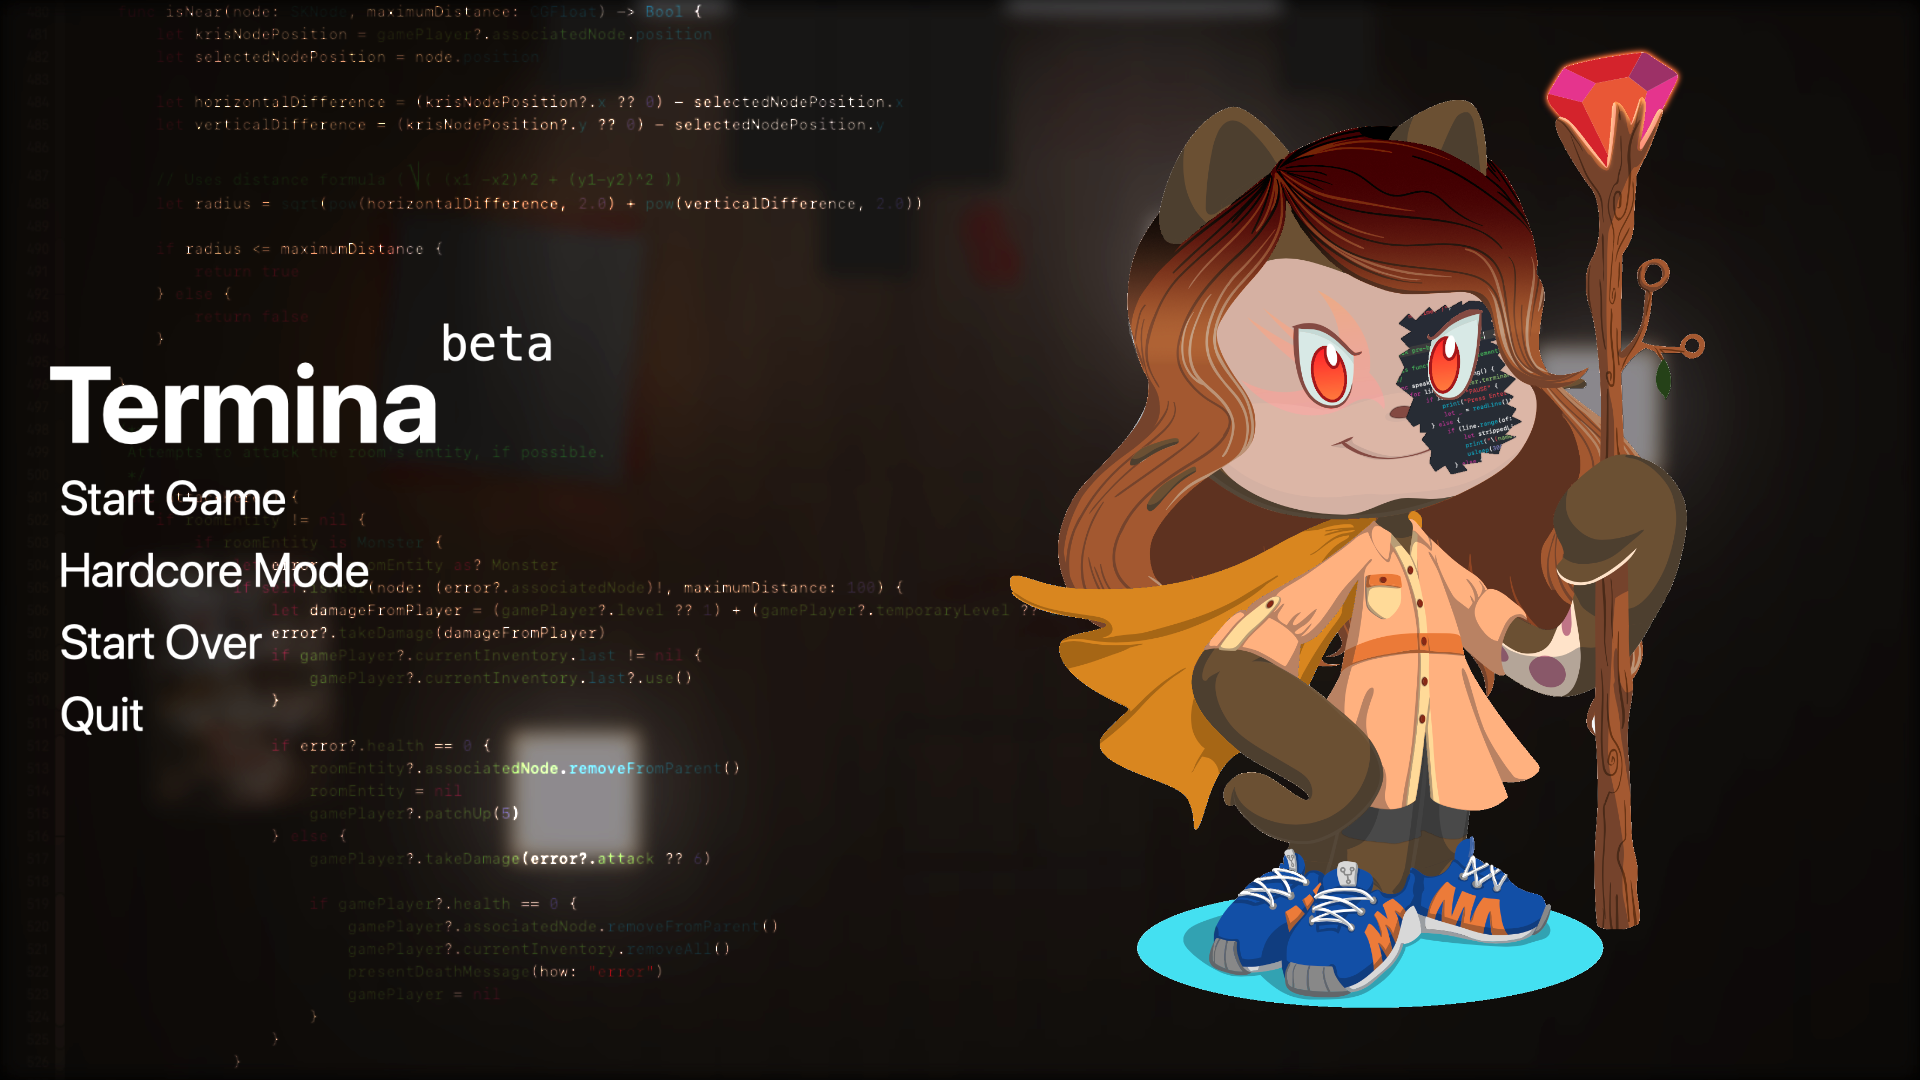
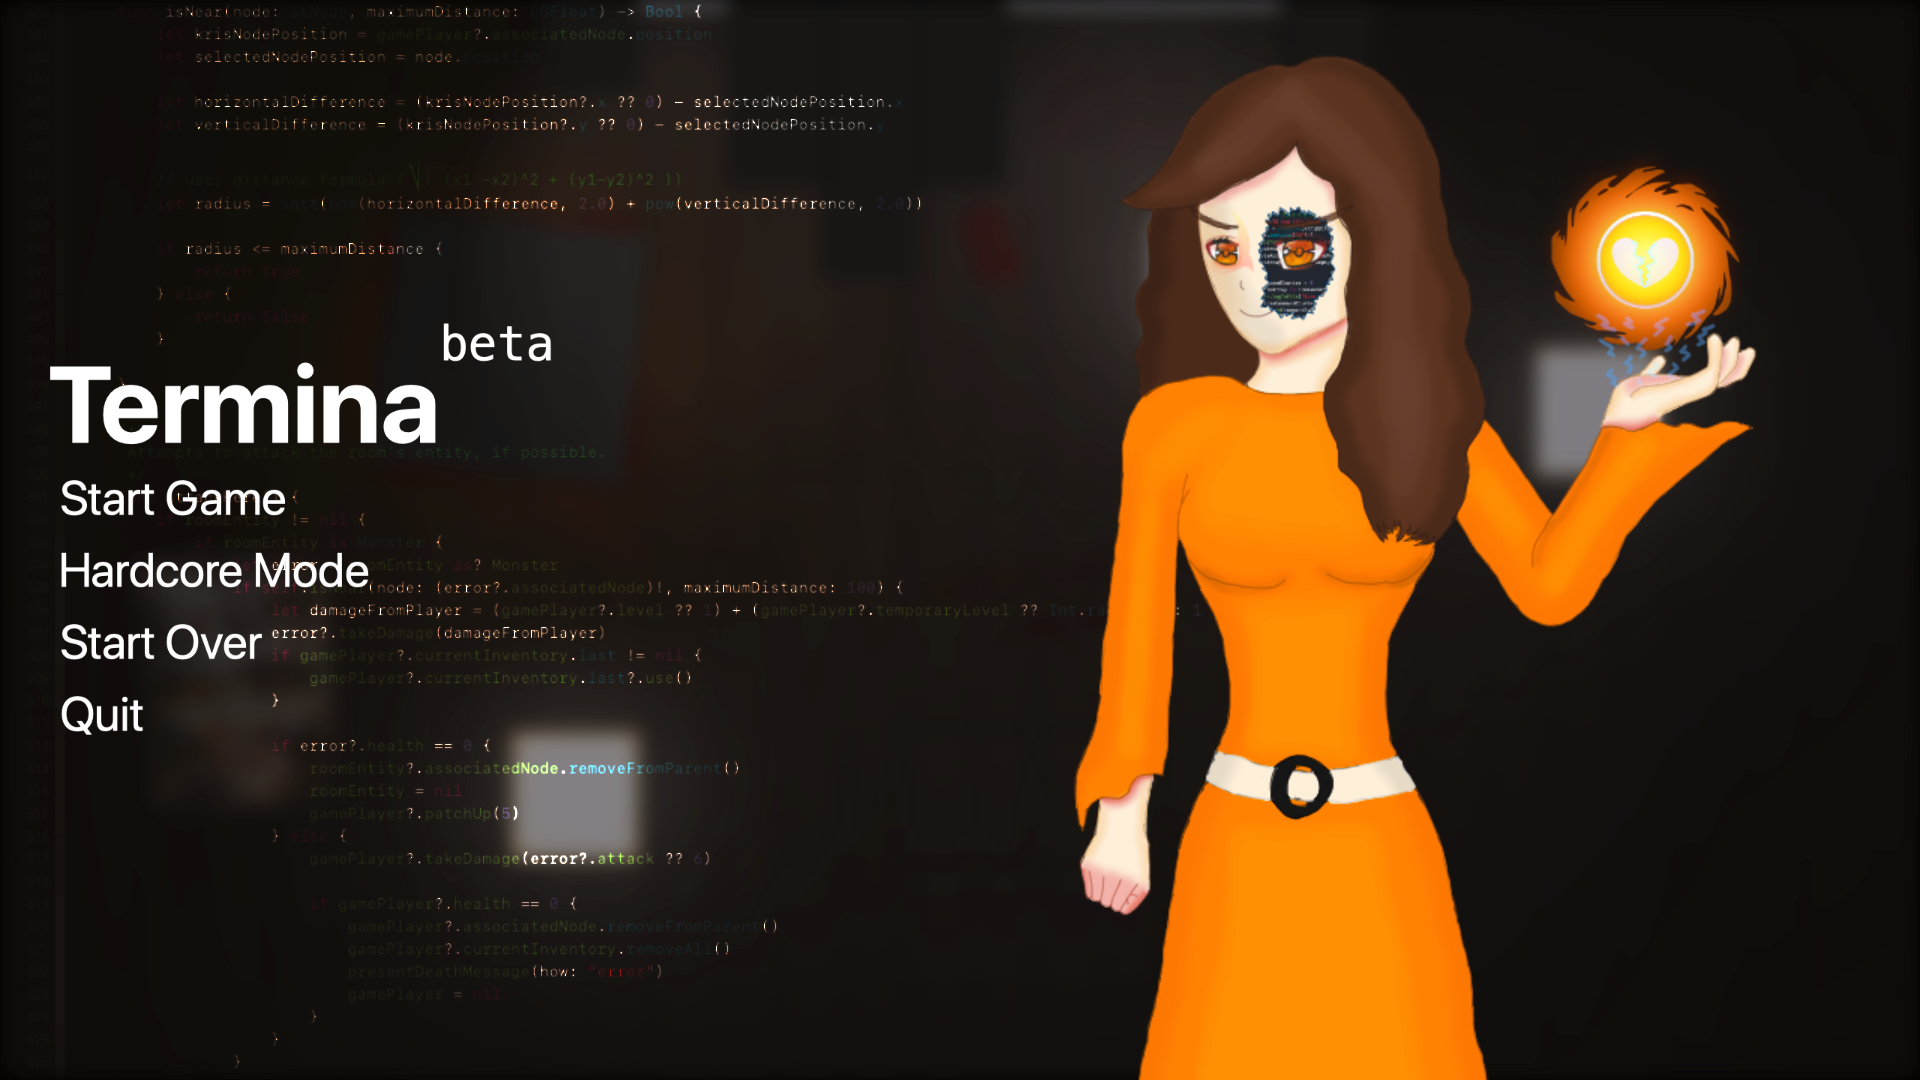
Added new comments, reorganized assets, fixed GitHub button

Changed region(s): [[0.5312, 0.0306, 0.9375, 1.0]]

diff --git a/pages/press.html b/pages/press.html
@@ -26,16 +26,17 @@ permalink: /press/
             </div>
         </div>
         <div class = "row">
-            <div class = "col-md-6 col-sm-12">
-                <img src = "{{ site.baseurl }}/assets/termmac.png" width = "70%" alt="Termina logo"/>
+            <div class = "col-md-2 col-sm-12">
+                <img src = "{{ site.baseurl }}/assets/icons/termmac.png" width = "100%" alt="Termina logo"/>
             </div>
-            <div class = "col-md-6 col-sm-12">
+            <div class = "col-md-10 col-sm-12">
                 <h2>Game Information</h2>
                 <p>
                     Termina is a singleplayer dungeon game written in Swift. Play as a player, trapped in Termina's endless dungeon. Catch the errors, upgrade versions, and keep going until you reach her. Can you reach her in time?
                 </p>
             </div>
         </div>
+        <br/>
         <div class = "row">
             <div class = "col-md-4 col-sm-6">
                 <h3>Available Platforms</h3>
@@ -81,7 +82,7 @@ permalink: /press/
                 <p>
                     <ul class = "list-unstyled">
                         <li><b>Developer</b>: Marquis Kurt</li>
-                        <li><b>Music Producers:</b> Linus Berggren, Eitan Avni-Heller</li>
+                        <li><b>Music Producers:</b> Linus Berggren</li>
                     </ul>
                 </p>
             </div>
@@ -95,23 +96,23 @@ permalink: /press/
             <div class = "col-md-3 col-sm-6">
                 <h3>Base</h3>
                 <p>Used to represent the command-line version of the game.</p>
-                <center><img src = "{{ site.baseurl }}/assets/base.png" width = "70%" alt="Base logo"/></center>
+                <center><img src = "{{ site.baseurl }}/assets/icons/base.png" width = "70%" alt="Base logo"/></center>
             </div>
             <div class = "col-md-3 col-sm-6">
                 <h3>macOS</h3>
                 <p>Used to represent the stable macOS version of the game.</p>
-                <center><img src = "{{ site.baseurl }}/assets/termmac.png" width = "70%" alt="macOS Stable logo"/></center>
+                <center><img src = "{{ site.baseurl }}/assets/icons/termmac.png" width = "70%" alt="macOS Stable logo"/></center>
             </div>
             <div class = "col-md-3 col-sm-6">
                 <h3>macOS Beta</h3>
                 <p>Used to represent the beta macOS version of the game.</p>
-                <center><img src = "{{ site.baseurl }}/assets/termmac_beta.png" width = "70%" alt="macOS Beta logo"/></center>
+                <center><img src = "{{ site.baseurl }}/assets/icons/termmac_beta.png" width = "70%" alt="macOS Beta logo"/></center>
                 <p class = "text-muted">This should only be used for describing the <a href = "{{ site.baseurl }}/mac/tutoriel.html">Termina for macOS Beta Program.</a></p>
             </div>
             <div class = "col-md-3 col-sm-6">
                 <h3>iOS</h3>
                 <p>Used to represent the iOS version of the game and the official profile picture.</p>
-                <center><img src = "{{ site.baseurl }}/assets/termios_rounded.png" width = "70%" alt="iOS logo"/></center>
+                <center><img src = "{{ site.baseurl }}/assets/icons/termios_rounded.png" width = "70%" alt="iOS logo"/></center>
             </div>
         </div>
         <div class = "row">

diff --git a/pages/releases.html b/pages/releases.html
@@ -47,11 +47,11 @@ permalink: /releases/
                 <div class = "row">
                     <div class = "col-2">
                         {% if post.product == "base" %}
-                            <img src = "{{ site.baseurl }}/assets/base.png" width="100%"/>
-                        {% else if post.product == "ios" %}
-                            <img src = "{{ site.baseurl }}/assets/termios.png" width="100%"/>
-                        {% else if post.product == "mac" %}
-                            <img src = "{{ site.baseurl }}/assets/termmac.png" width="100%"/>   
+                            <img src = "{{ site.baseurl }}/assets/icons/base.png" width="100%"/>
+                        {% elsif post.product == "ios" %}
+                            <img src = "{{ site.baseurl }}/assets/icons/termios-rounded.png" width="100%"/>
+                        {% elsif post.product == "mac" %}
+                            <img src = "{{ site.baseurl }}/assets/icons/termmac.png" width="100%"/>   
                         {% endif %}
                     </div>
                     <div class = "col-10">
@@ -77,11 +77,11 @@ permalink: /releases/
                 <div class = "row">
                     <div class = "col-2">
                         {% if post.product == "base" %}
-                            <img src = "{{ site.baseurl }}/assets/base.png" width="100%"/>
-                        {% else if post.product == "ios" %}
-                            <img src = "{{ site.baseurl }}/assets/termios.png" width="100%"/>
-                        {% else if post.product == "mac" %}
-                            <img src = "{{ site.baseurl }}/assets/termmac.png" width="100%"/>   
+                            <img src = "{{ site.baseurl }}/assets/icons/base.png" width="100%"/>
+                        {% elsif post.product == "ios" %}
+                            <img src = "{{ site.baseurl }}/assets/icons/termios.png" width="100%"/>
+                        {% elsif post.product == "mac" %}
+                            <img src = "{{ site.baseurl }}/assets/icons/termmac.png" width="100%"/>   
                         {% endif %}
                     </div>
                     <div class = "col-10">
@@ -105,11 +105,11 @@ permalink: /releases/
                 <div class = "row">
                     <div class = "col-2">
                         {% if post.product == "base" %}
-                            <img src = "{{ site.baseurl }}/assets/base.png" width="100%"/>
-                        {% else if post.product == "ios" %}
-                            <img src = "{{ site.baseurl }}/assets/termios.png" width="100%"/>
-                        {% else if post.product == "mac" %}
-                            <img src = "{{ site.baseurl }}/assets/termmac.png" width="100%"/>   
+                            <img src = "{{ site.baseurl }}/assets/icons/base.png" width="100%"/>
+                        {% elsif post.product == "ios" %}
+                            <img src = "{{ site.baseurl }}/assets/icons/termios.png" width="100%"/>
+                        {% elsif post.product == "mac" %}
+                            <img src = "{{ site.baseurl }}/assets/icons/termmac.png" width="100%"/>   
                         {% endif %}
                     </div>
                     <div class = "col-10">

diff --git a/_layouts/release.html b/_layouts/release.html
@@ -30,11 +30,11 @@
                     </div>
                     <div class = "col-3">
                         {% if page.product == "base" %}
-                            <img src = "{{ site.baseurl }}/assets/base.png" width="100%"/>
-                        {% else if page.product == "ios" %}
-                            <img src = "{{ site.baseurl }}/assets/termios.png" width="100%"/>
-                        {% else if page.product == "mac" %}
-                            <img src = "{{ site.baseurl }}/assets/termmac.png" width="100%"/>   
+                            <img src = "{{ site.baseurl }}/assets/icons/base.png" width="100%"/>
+                        {% elsif page.product == "ios" %}
+                            <img src = "{{ site.baseurl }}/assets/icons/termios.png" width="100%"/>
+                        {% elsif page.product == "mac" %}
+                            <img src = "{{ site.baseurl }}/assets/icons/termmac.png" width="100%"/>   
                         {% endif %}
                     </div>
                 </div>
@@ -62,14 +62,14 @@
                             <p>To install this product, copy the <code>termina</code> binary to where you can execute Unix binaries (usually <code>/usr/bin/</code> or <code>/usr/local/bin/</code>). Alternatively, you can copy this to a local folder in your Home directory and <a href="http://osxdaily.com/2014/08/14/add-new-path-to-path-command-line/">export the PATH in your Bash profile</a>.</p>
                         </div>
                     </p>
-                {% else if page.product == "ios" %}
+                {% elsif page.product == "ios" %}
                     <p>
                         <div class="alert alert-primary" role="alert">
                             <h4 class = "alert-heading">Installation instructions</h4>
                             <p>To install this product, install Termina for iOS from the App Store.</p>
                         </div>
                     </p>
-                {% else if page.product == "mac" %}
+                {% elsif page.product == "mac" %}
                     <p>
                         <div class="alert alert-primary" role="alert">
                             <h4 class = "alert-heading">Installation instructions</h4>

diff --git a/_layouts/post.html b/_layouts/post.html
@@ -38,6 +38,25 @@
             </div>
         </div>
     {% endif %}
+    <div class = "container">
+        <div class = "row">
+            <div class = "col">
+                <div id="disqus_thread"></div>
+                    <script>
+                    var disqus_config = function () {
+                      this.page.url = '{{ page.url | absolute_url }}';
+                      this.page.identifier = '{{ page.url | absolute_url }}';
+                    };
+                    (function() {
+                      var d = document, s = d.createElement('script');
+                      s.src = 'https://{{ site.disqus }}.disqus.com/embed.js';
+                      s.setAttribute('data-timestamp', +new Date());
+                      (d.head || d.body).appendChild(s);
+                    })();
+                </script>
+            </div>
+        </div>
+    </div>
     </div>
     
     <script src="https://code.jquery.com/jquery-3.3.1.slim.min.js" integrity="sha384-q8i/X+965DzO0rT7abK41JStQIAqVgRVzpbzo5smXKp4YfRvH+8abtTE1Pi6jizo" crossorigin="anonymous"></script>

diff --git a/_includes/navbar.html b/_includes/navbar.html
@@ -33,12 +33,12 @@
         </li>
     </ul>
     <span>
-        {% if page.title == "Termina for macOS" %}
-            <a class = "btn btn-light" href = "https://www.github.com/TerminaGame/mac">Fork on GitHub</a>
-        {% else if page.title == "Press Kit" %}
-            <a class = "btn btn-light" href = "https://www.github.com/TerminaGame/Press">Fork on GitHub</a>
+        {% if page.permalink == "/mac/" %}
+            <a class = "btn btn-light" href = "https://www.github.com/TerminaGame/mac">Fork mac on GitHub</a>
+        {% elsif page.permalink == "/press/" %}
+            <a class = "btn btn-light" href = "https://www.github.com/TerminaGame/Press">Fork Press on GitHub</a>
         {% else %}
-            <a class = "btn btn-light" href = "https://www.github.com/TerminaGame/">View on GitHub</a>
+            <a class = "btn btn-light" href = "https://www.github.com/TerminaGame/">View GitHub Profile</a>
         {% endif %}
     </span>
   </div>

diff --git a/_includes/mac_beta_promo.html b/_includes/mac_beta_promo.html
@@ -1,15 +1,16 @@
 {% if site.enable_macos_beta %}
 <div class = "row shadow p-4 mb-4 rounded toriel">
     <div class = "col-md-4 col-sm-12">
-        <img src = "{{ site.baseurl }}/assets/macos_beta_promo_slim.png" width="90%"/>
+        <img src = "{{ site.baseurl }}/assets/beta/pb_macos_device.png" width="90%"/>
     </div>
     <div class = "col-md-8 col-12-sm">
-        <h2>Help test the macOS Beta</h2>
-        <p>
+        <h1>Help test the macOS Beta</h1>
+        <p class = "h5">
             Join the Termina for macOS Beta Program and test releases of Termina for macOS and give feedback.
         </p>
+        <br/>
         <p>
-            <a class = "btn btn-primary" href = "{{ site.baseurl }}/mac/tutoriel.html">Sign up</a>
+            <a class = "btn btn-primary" href = "{{ site.baseurl }}/mac/tutoriel.html">Try the beta</a>
         </p>
     </div>
 </div>

diff --git a/_includes/beta-license.html b/_includes/beta-license.html
@@ -18,13 +18,14 @@
         <li>Sprite interaction errors</li>
         <li>Backend errors that don’t collect player data</li>
     </ul>
+    <p>If you are not comfortable with data being sent to AppCenter, you can disable the setting in Preferences &rsaquo; Beta Program.</p>
 </p>
 
 <h5>License Agreement</h5>
 <p>
     Termina is still licensed under the Apache 2.0 License, but here’s basically the terms in question with this program:
     <ul>
-        <li>By using the beta version through AppCenter, you agree to having some crash reports sent to AppCenter analytics.</li>
+        <li>By using the beta version through AppCenter, you agree to having some crash reports sent to AppCenter analytics unless disabled.</li>
         <li>You also have the right to send feedback about the beta to improve the final release.</li>
     </ul>
     

diff --git a/_includes/footer.html b/_includes/footer.html
@@ -2,7 +2,7 @@
     <div class = "container">
         <div class = "row">
             <div class = "col">
-                <p>&copy; 2018 | Termina Developers. All rights reserved. Licensed under the <a href="http://www.apache.org/licenses/LICENSE-2.0" class = "text-warning">Apache License</a>. Made with ❤.</p>
+                <p>&copy; 2018 | {{ site.author }}. All rights reserved. Licensed under the <a href="http://www.apache.org/licenses/LICENSE-2.0" class = "text-warning">Apache License</a>. Made with ❤.</p>
             </div>
         </div>
     </div>

diff --git a/pages/macos-preview.html b/pages/macos-preview.html
@@ -58,6 +58,7 @@ permalink: /mac/tutoriel.html
                 <h1> {% octicon comment-discussion class:"woot" %} Submit feedback on the fly</h1>
                 <p>
                     Accessing the Feedback menu couldn't be simpler. Just go to <b>Help &rsaquo; Send Feedback</b> and file a bug report.
+                    <img class = "shadow rounded" src = "{{ site.baseurl }}/assets/beta/feedback.png" width = "100%"/>
                 </p>
             </div>
             <div class = "col-md-4 col-sm-12 not-emd">

diff --git a/_includes/macos_screenshots.html b/_includes/macos_screenshots.html
@@ -21,6 +21,9 @@
     <div class="carousel-item">
       <img class="d-block w-100" src="{{ site.baseurl }}/assets/press/macos_screenshot/screenshot7.png">
     </div>
+    <div class="carousel-item">
+      <img class="d-block w-100" src="{{ site.baseurl }}/assets/press/macos_screenshot/screenshot8.png">
+    </div>
   </div>
   <a class="carousel-control-prev" href="#screenshots" role="button" data-slide="prev">
     <span class="carousel-control-prev-icon" aria-hidden="true"></span>

diff --git a/_posts/2018-12-05-blog.md b/_posts/2018-12-05-blog.md
@@ -32,7 +32,7 @@ For those that are interested in talking about Termina on their site, video, etc
 ![Press Kit]({{ site.baseurl }}/assets/posts/presskit.png)
 
 ## Meet the new Termina
-![Termina as a human]({{ site.baseurl }}/assets/human.png)
+![Termina as a human]({{ site.baseurl }}/assets/posts/human_orig.png)
 
 With the beta rolling out, I finally decided to start work on Termina's human form. Taking inspiration and learning practices from drawing sprites for [_The Angel Returns_](https://theangelreturns.aliceos.app), I came up with this sprite here. This isn't really used a lot, and there's no "final" version as of right now. However, this is an official representation of Termina as of today, December 5. I recommend that you don't question her fashion choices, either...
 

diff --git a/_posts/2018-11-30-blog.md b/_posts/2018-11-30-blog.md
@@ -2,7 +2,7 @@
 title: Termina for macOS Beta Program coming soon!
 author: Marquis Kurt
 date: 2018-11-30
-icon: termmac_beta.png
+icon: icons/termmac_beta.png
 cover: mimi-thian-737012-unsplash.jpg
 layout: post
 category: post
